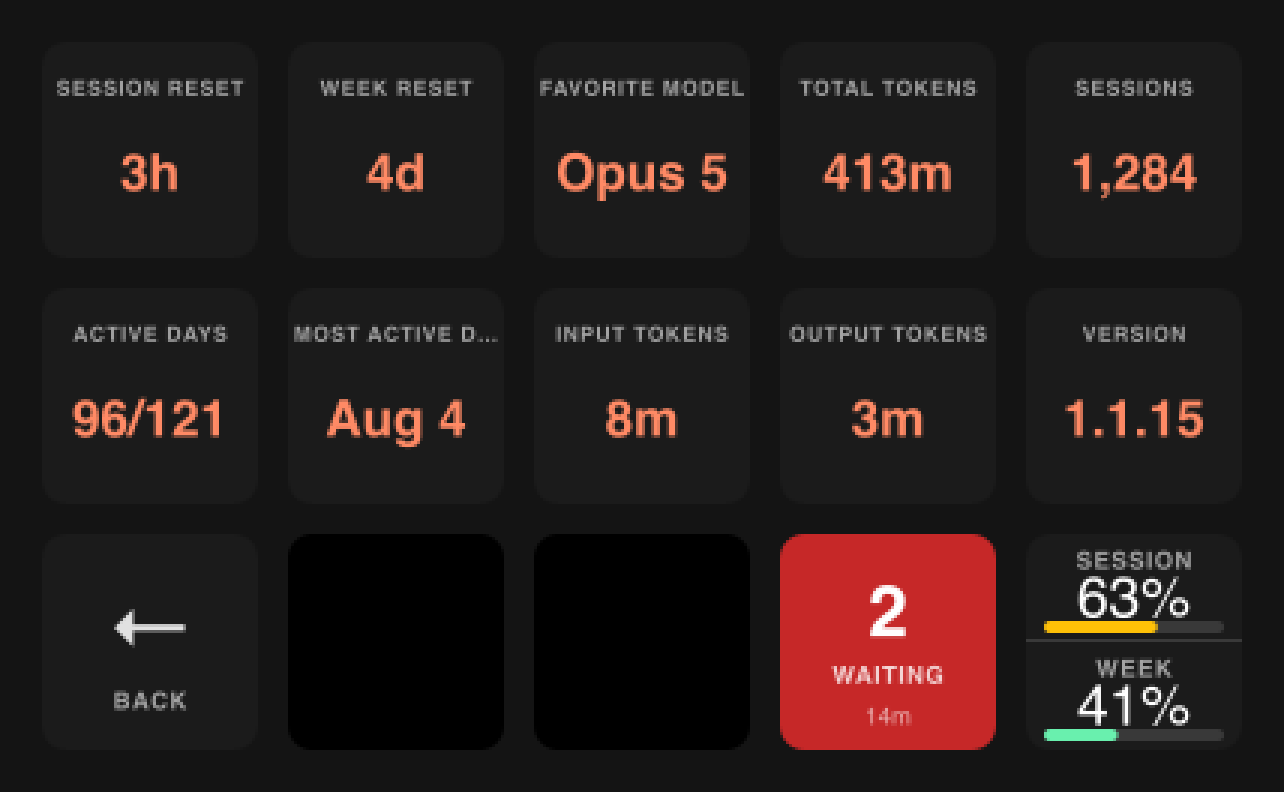
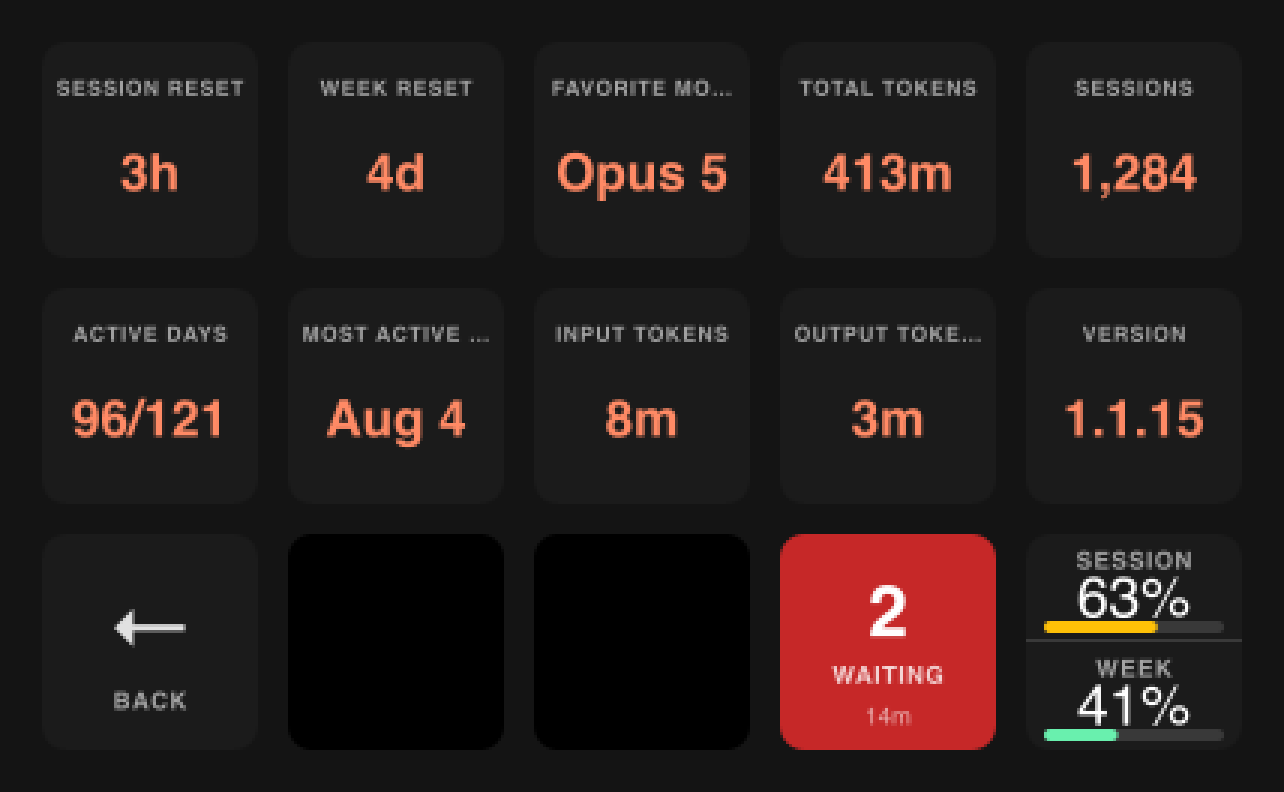
docs: re-shoot the boards and correct the README
The four screenshots were rendered before the text fitting changed, so they
showed the old flat-estimate wrapping and the always-reserved marker column.
Re-run through board-shot, which draws them with the daemon's own code.

Also: the checks block was missing subagents-check and colors-check, and the
colour table read `shell` as "dropped to a shell" — it is the opposite, a
turn that is over with a background shell still running, and the key is green
with a blue dot rather than blue.

Changed region(s): [[0.6231, 0.3939, 0.7788, 0.4545], [0.2181, 0.3939, 0.3738, 0.4545], [0.405, 0.0909, 0.5919, 0.1212]]

diff --git a/README.md b/README.md
@@ -18,7 +18,7 @@ window.
 | green | `busy` | actively working |
 | red | `requires_action` | blocked on you — this key pulses |
 | amber | `waiting` | waiting on input |
-| blue dot | `shell` | dropped to a shell |
+| green + blue dot | `shell` | turn's over, but a shell it started in the background is still running |
 | gray | `idle` | idle |
 
 The last two keys leave the rotation, so 13 are session keys. Extra sessions
@@ -67,6 +67,11 @@ does the usage key.
   started gets its own key wherever its cwd is — worktrees included.
 - **A key's colour covers its block.** A project whose only activity is a
   subagent reads as working, not as a grey key with a 3px marker.
+- **A key uses the whole key.** Lines are filled to the width they really
+  reach — character widths are measured off the same font the keys are drawn
+  in, rather than guessed at one average width per character — and the left
+  marker column is held open only while a marker is in it, so a key with no
+  background activity gets those pixels for its title instead.
 - **Slots never move.** Keys are assigned first-seen and stay put, and a project
   keeps its slot and colour after its last session ends, so a returning project
   lands where it was. The attention board is the deliberate exception — it's
@@ -132,13 +137,15 @@ imports from `src/`, compares against expected values, and exits nonzero on
 mismatch.
 
 ```
-npm run render-check   # SVG -> key image pipeline, writes sample PNGs
-npm run slots-check    # project grouping / slot assignment / detail layout
-npm run tasks-check    # "task X of Y" numbering
-npm run usage-check    # rate-limit parse (--live prints the raw API response)
-npm run stats-check    # stats board formatting (--live prints the real tiles)
-npm run title-check    # title / cleared / blocked-on-denial / model / effort
-npm run board-shot     # re-render the screenshots above
+npm run render-check    # SVG -> key image pipeline, text fitting, sample PNGs
+npm run slots-check     # project grouping / slot assignment / detail layout
+npm run tasks-check     # "task X of Y" numbering
+npm run usage-check     # rate-limit parse (--live prints the raw API response)
+npm run stats-check     # stats board formatting (--live prints the real tiles)
+npm run title-check     # title / cleared / blocked-on-denial / model / effort
+npm run subagents-check # which Agent-tool subagents are still running
+npm run colors-check    # palette contrast + separation floors
+npm run board-shot      # re-render the screenshots above
 ```
 
 ## Known limits
